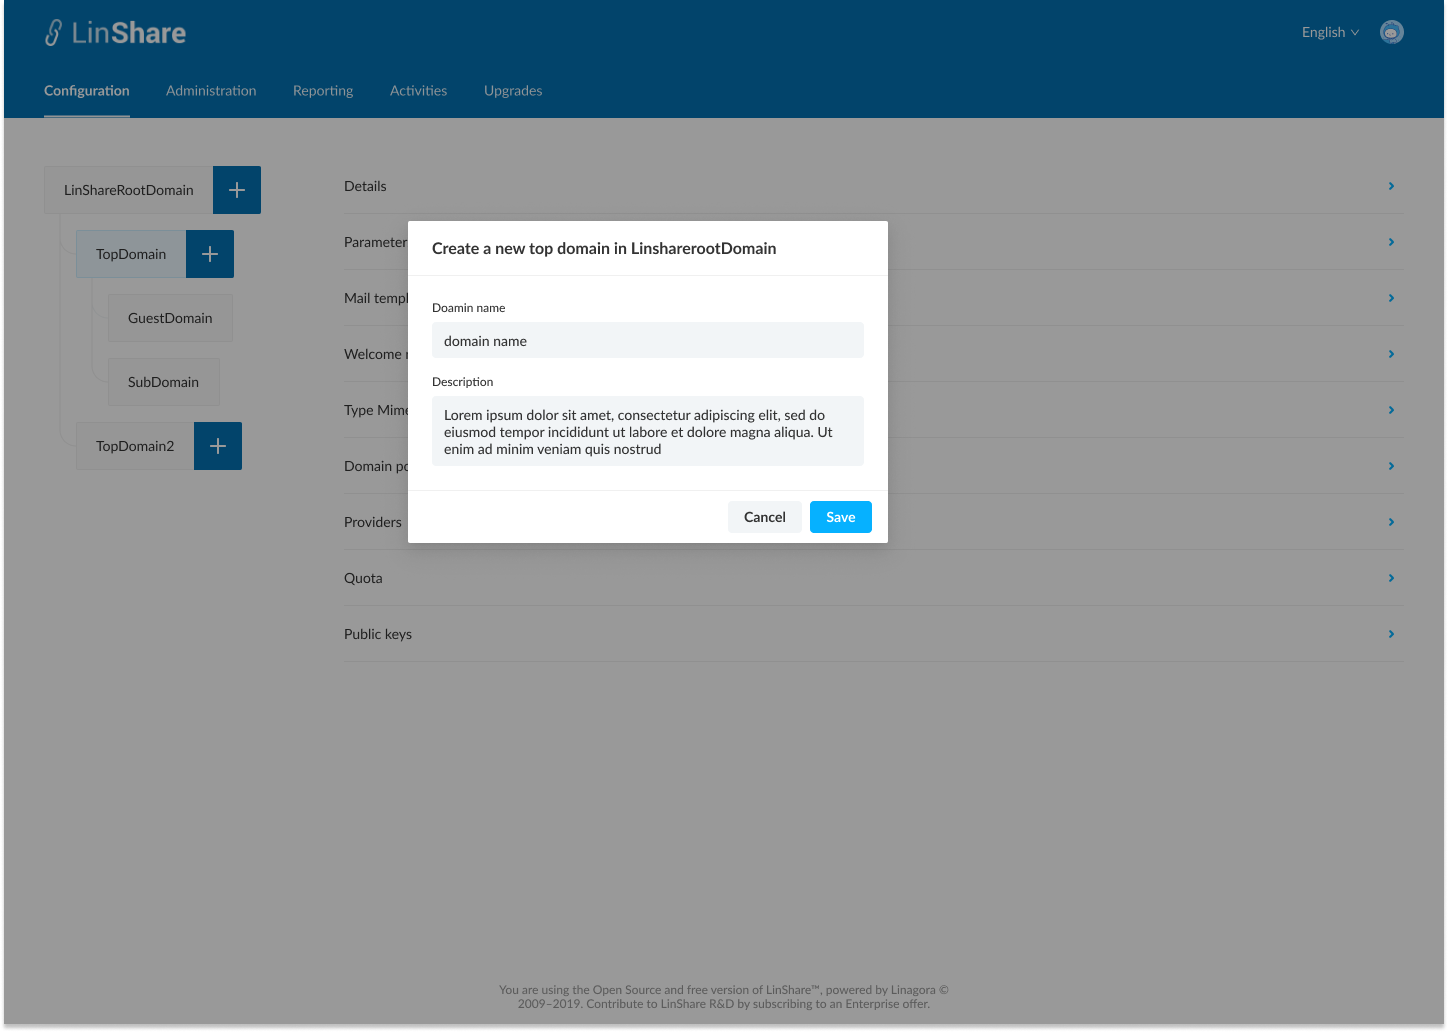
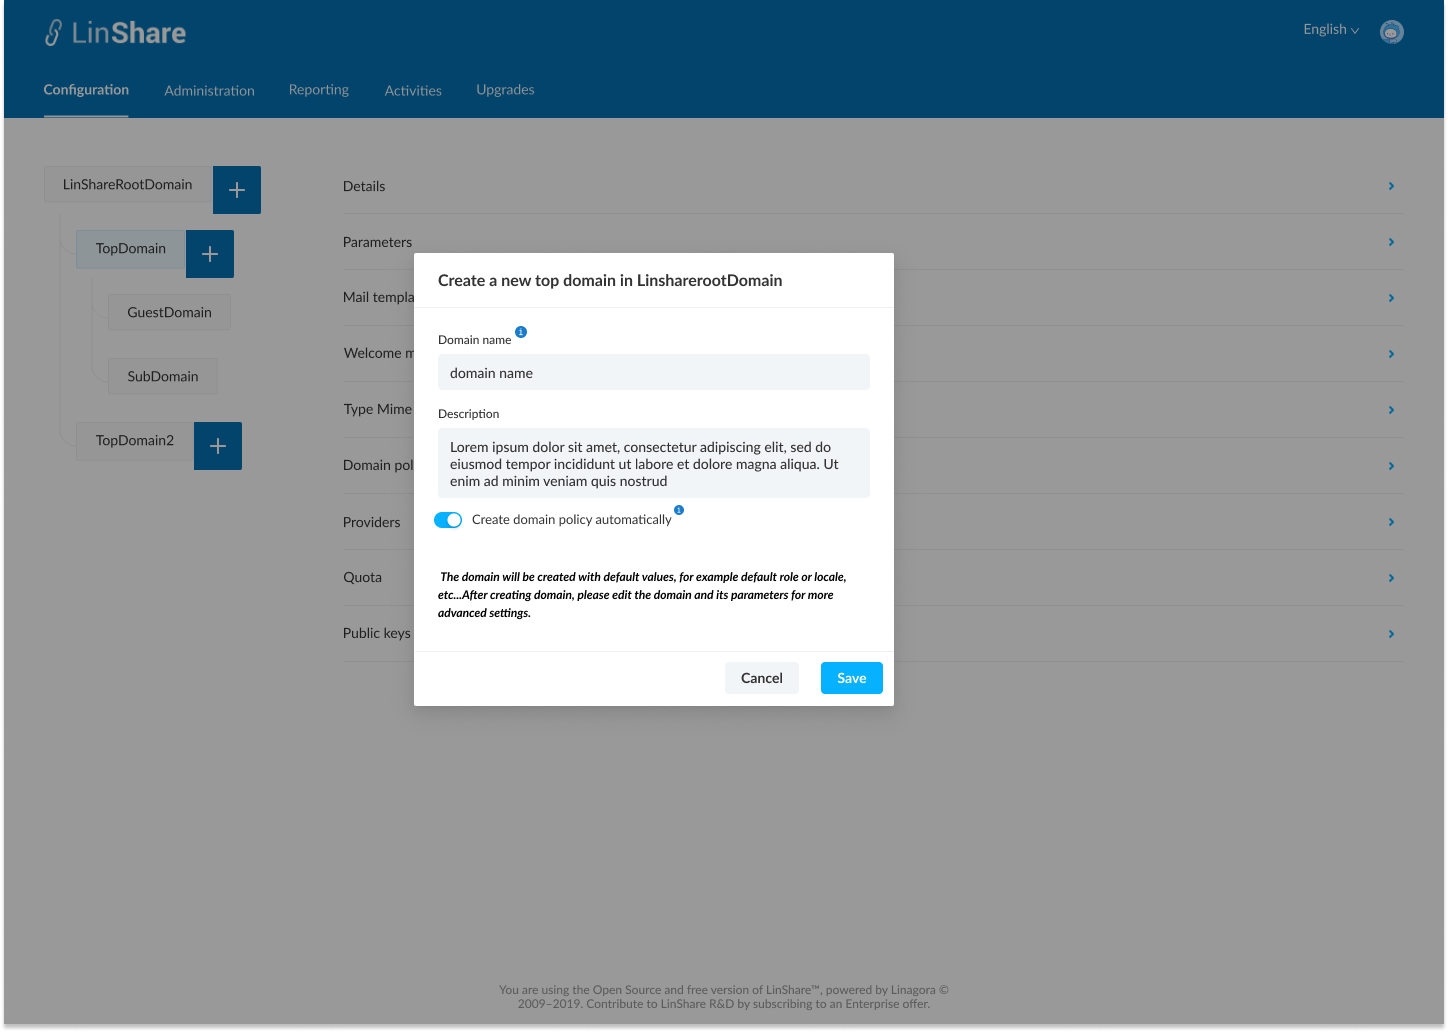
Update new-admin-portal/story-17-admin-create-domain.md file

diff --git a/documentation/EN/epics/new-admin-portal/story-17-admin-create-domain.md b/documentation/EN/epics/new-admin-portal/story-17-admin-create-domain.md
@@ -29,8 +29,11 @@
 * When i click on button "Add top domain", a screen will be opened. 
 * On this new screen, i can see:
    * Screen name: Create a new [domain type] in [Parent domain name]
-   * Domain name: A text field that allow me to input domain name. This field is mandatory
+   * Domain name: A text field that allow me to input domain name. This field is mandatory. I can click on Information icon to see the explaination: "This domain name will be used officially in whole platform, both Admin site and End user site" 
    * Description: A text field that allow me to input description. This field is optional 
+   * A toggle : Create domain policy automatically. Default value is false. I can click on con Information to see the explaination:" If enabled, a rule will be created automatically by authorizing the newly created domain to communicate with itself only. All other communications are forbidden by default. If disabled, the default domain policy will be applied. It will allow all other domains to see this domain."
+   * I can see a text message:"  The domain will be created with default values, for example default role or locale, etc...After creating domain, please edit the domain and its parameters for more advanced settings."
+
 
 #### Postconditions
 
